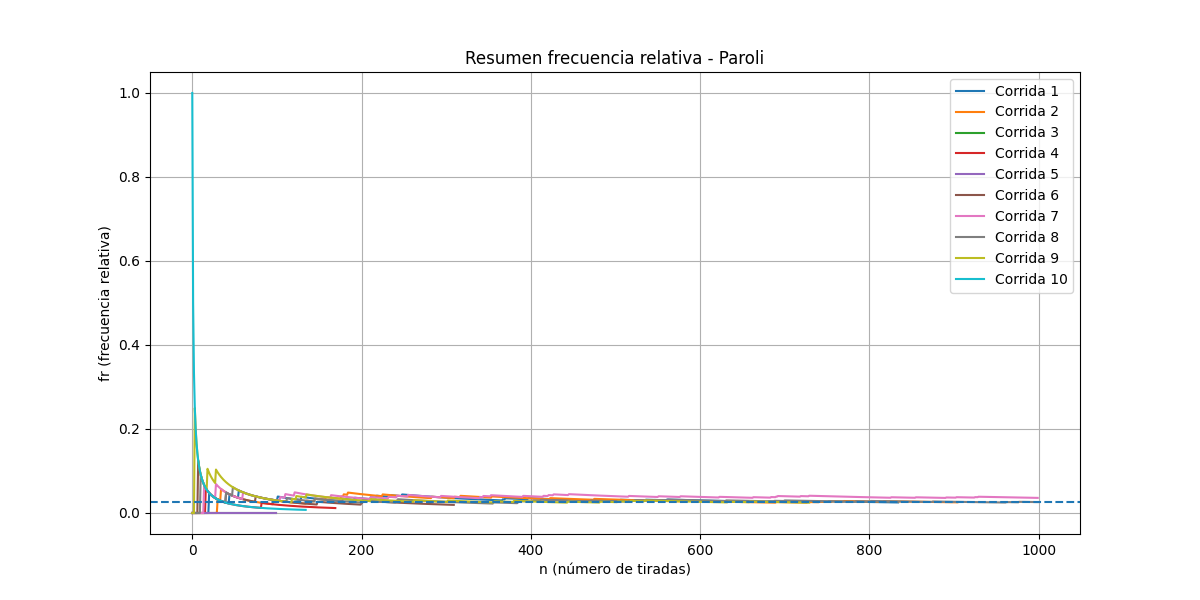
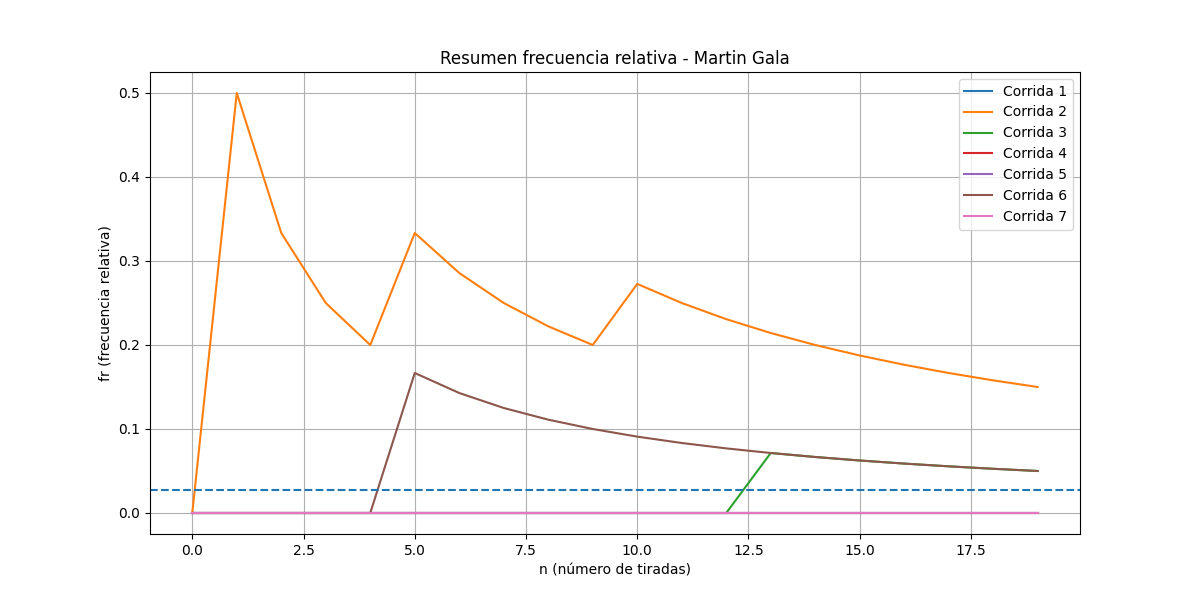
graficas corregidas, codigo finalizado (creo)

diff --git a/TP 1.2/Tp1.2-Estrategias.py b/TP 1.2/Tp1.2-Estrategias.py
@@ -13,103 +13,7 @@ def ruleta():
     valor = random.randint(0, 36)
     return valor
 
-# Grafica
-def grafica_balance(balanceArray, i, strategy_name):
-    plt.figure(figsize=(10, 6))
-
-    #Flujo de caja (FC)
-    plt.plot(range(len(balanceArray)), balanceArray,
-             label="fc (flujo de caja)")
-
-    # Flujo de caja inicial (FCI)
-    plt.axhline(y=initial_capital,
-                color='r',
-                linestyle='--',
-                label="fci (flujo de caja inicial)")
-
-    plt.title(f'Balance - Corrida {i+1} - {strategy_name}')
-    plt.xlabel('n (número de tiradas)')
-    plt.ylabel('cc (cantidad de capital)')
-
-    plt.legend()
-    plt.grid(True)
-
-    plt.savefig(f'balance_corrida_{i+1}.png')
-    plt.show()
-
-
-def grafica_resumen_balances(balancesArray, i, strategy_name):
-    plt.figure(figsize=(12, 6))
-
-    for j in range(len(balancesArray)):
-        plt.plot(balancesArray[j], label=f'Corrida {j+1}')
-
-    plt.title(f'Resumen balances - {strategy_name}')
-    plt.xlabel('n (número de tiradas)')
-    plt.ylabel('cc (cantidad de capital)')
-
-    plt.legend()
-    plt.grid(True)
-
-    plt.savefig('balance_resumen.png')
-    plt.show()
-
-def grafica_frec_numero(valores, i, numero_elegido, strategy_name):
-    frec_real = valores.count(numero_elegido) / len(valores)
-    frec_esperada = 1/37
-
-    plt.figure(figsize=(8, 5))
-
-    plt.bar(['Real'], [frec_real], label='Frecuencia observada')
-    plt.axhline(frec_esperada, linestyle='--', label='Frecuencia esperada')
-
-    plt.title(f'Frecuencia número {numero_elegido} - Corrida {i+1} - {strategy_name}')
-    plt.ylabel('fr (frecuencia relativa)')
-
-    plt.legend()
-    plt.grid(True)
-
-    plt.savefig(f'frec_numero_corrida_{i+1}.png')
-    plt.show()
-
-def grafica_frec_rel(frecRelPorTiradaArray, i, numero_elegido, strategy_name):
-    frec_esperada = 1/37
-
-    plt.figure(figsize=(12, 6))
-
-    plt.plot(range(1, len(frecRelPorTiradaArray)+1), frecRelPorTiradaArray)
-
-    plt.axhline(frec_esperada, linestyle='--')
-
-    plt.title(f'Frecuencia relativa acumulada del número {numero_elegido} - Corrida {i+1}')
-    plt.plot(frecRelPorTiradaArray, label="(frsa) frecuencia relativa de obtener la apuesta favorable segun n")
-    plt.xlabel('n (número de tiradas)')
-    plt.ylabel('fr (frecuencia relativa)')
-    plt.legend()
-
-    plt.grid(True)
-
-    plt.savefig(f'frec_rel_corrida_{i+1}.png')
-    plt.show()
-
-def grafica_resumen_frec_rel(resumenFrecRel, strategy_name):
-    plt.figure(figsize=(12, 6))
-
-    for i in range(len(resumenFrecRel)):
-        plt.plot(resumenFrecRel[i], label=f'Corrida {i+1}')
-
-    plt.axhline(1/37, linestyle='--')
-
-    plt.title(f'Resumen frecuencia relativa - {strategy_name}')
-    plt.xlabel('n (número de tiradas)')
-    plt.ylabel('fr (frecuencia relativa)')
-
-    plt.legend()
-    plt.grid(True)
-
-    plt.savefig('resumen_frec_rel.png')
-    plt.show()
-    
+# Grafica    
 def graficas_muestra(balancesArray, resumenFrecRel, valoresArray,
                      cant_corridas, numero_elegido, strategy_name):
 
@@ -122,16 +26,18 @@ def graficas_muestra(balancesArray, resumenFrecRel, valoresArray,
     plt.subplot(2, 2, 1)
     for i in indices_random:
         plt.plot(balancesArray[i], label=f'Corrida {i+1}')
-    plt.title('Balance')
+    plt.title('Balance - Flujo de caja')
+    plt.axhline(y=initial_capital, linestyle='--', color='r',label="fci (flujo de caja inicial)") #solo funciona con capital finito
     plt.xlabel('n (número de tiradas)')
     plt.ylabel('cc (cantidad de capital)')
     plt.legend()
+
 
     # Frecuencia relativa acumulada
     plt.subplot(2, 2, 2)
     for i in indices_random:
         plt.plot(resumenFrecRel[i], label=f'Corrida {i+1}')
-    plt.axhline(1/37, linestyle='--')
+    plt.axhline(1/37, linestyle='--', label='(frsa) frecuencia relativa de obtener la apuesta favorable segun n')
     plt.title(f'Frecuencia relativa ({numero_elegido})')
     plt.xlabel('n (número de tiradas)')
     plt.ylabel('fr (frecuencia relativa)')
@@ -356,13 +262,7 @@ def simulate_game(strategy, initial_bet, cant_tiradas, cant_corridas,
         resumenFrecRel.append(frecRelPorTiradaArray)
         valoresArray.append(valores)
         
-    # no funcionan porque no tienen i definido
-    #grafica_balance(balanceArray, i, strategy_name)
-    #grafica_resumen_balances(balancesArray, i, strategy_name)
-    #grafica_frec_numero(valores, numero_elegido, i, strategy_name)
-    #grafica_frec_rel(frecRelPorTiradaArray, i, numero_elegido, strategy_name)
-
-    grafica_resumen_frec_rel(resumenFrecRel,  strategy_name)
+    
     graficas_muestra(
             balancesArray,
             resumenFrecRel,
@@ -375,7 +275,7 @@ def simulate_game(strategy, initial_bet, cant_tiradas, cant_corridas,
 if len(sys.argv) != 11:
     print("Uso: python Tp1.2-Estrategias.py -c <cant_tiradas> -n <corridas> -e <numero_elegido|auto> -s <estrategia(m/d/f/o)> -a <capital(i/f)>")
     sys.exit(1)
-# e realizan 7 corridas y 20
+
 #tiradas
 cant_tiradas = int(sys.argv[2])
 cant_corridas = int(sys.argv[4])
